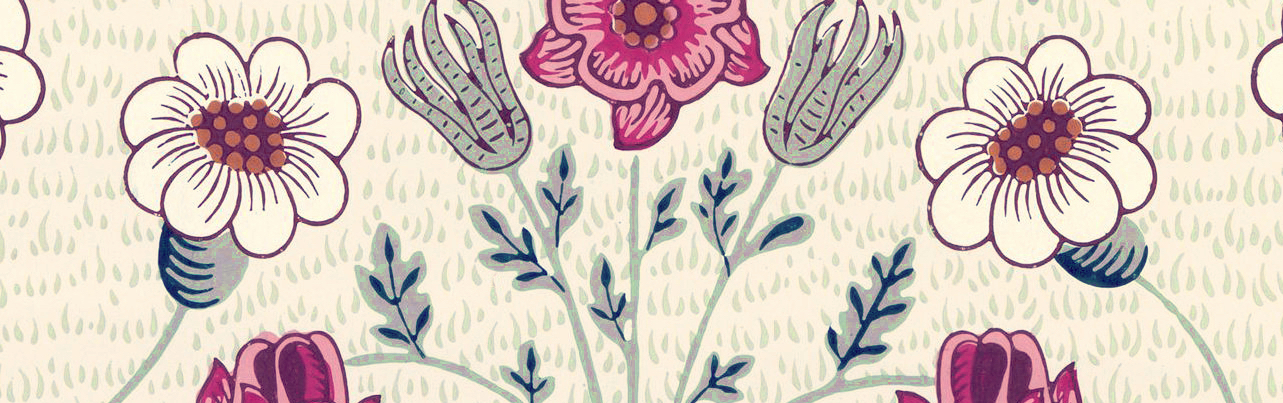
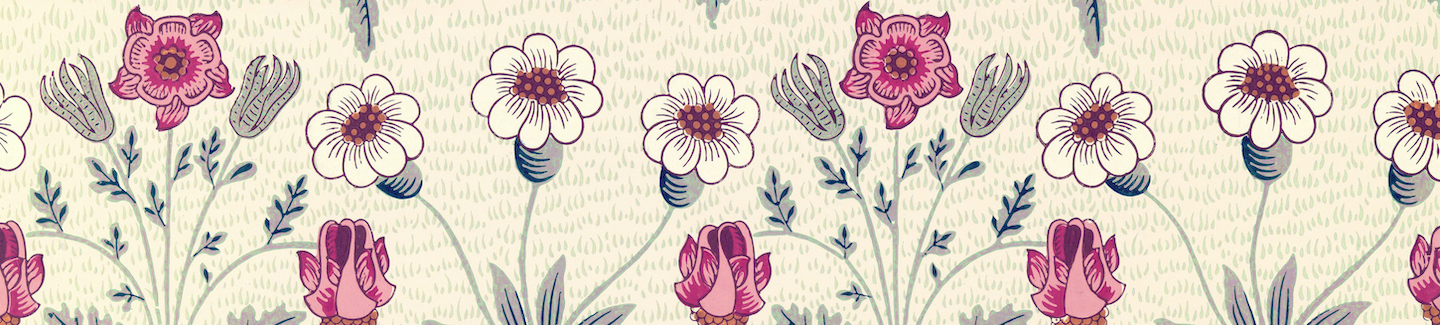
slider

diff --git a/content/home/slider.md b/content/home/slider.md
@@ -23,7 +23,7 @@ height = "325px"
   # Overlay a color or image (optional).
   #   Deactivate an option by commenting out the line, prefixing it with `#`.
   overlay_color = "#404040"  # An HTML color value.
-  overlay_img = "headers/daisy.jpg"  # Image path relative to your `static/img/` folder.
+  overlay_img = "headers/pomegranate.jpg"  # Image path relative to your `static/img/` folder.
   overlay_filter = 0.4  # Darken the image. Value in range 0-1.
 
   # Call to action button (optional).
@@ -40,8 +40,8 @@ height = "325px"
   align = "left"
 
   overlay_color = "#404040"  # An HTML color value.
-  overlay_img = "headers/pomegranate2.jpg"  # Image path relative to your `static/img/` folder.
-  overlay_filter = 0.6  # Darken the image. Value in range 0-1.
+  overlay_img = "headers/daisy.jpg"  # Image path relative to your `static/img/` folder.
+  overlay_filter = 0.4  # Darken the image. Value in range 0-1.
   
   cta_label = "see my projects"
   cta_url = "/projects"
@@ -54,7 +54,7 @@ height = "325px"
   align = "right"
 
   overlay_color = "#404040"  # An HTML color value.
-  overlay_img = "headers/pomegranate.jpg"  # Image path relative to your `static/img/` folder.
+  overlay_img = "headers/tulip.jpg"  # Image path relative to your `static/img/` folder.
   overlay_filter = 0.4  # Darken the image. Value in range 0-1.
 
   cta_label = "see my projects"
@@ -68,7 +68,7 @@ height = "325px"
   align = "center"
 
   overlay_color = "#404040"  # An HTML color value.
-  overlay_img = "headers/tulip.jpg"  # Image path relative to your `static/img/` folder.
+  overlay_img = "headers/bees.jpg"  # Image path relative to your `static/img/` folder.
   overlay_filter = 0.4  # Darken the image. Value in range 0-1.
 
   cta_label = "see my projects"
@@ -83,7 +83,7 @@ height = "325px"
 
   overlay_color = "#404040"  # An HTML color value.
   overlay_img = "headers/daisy-pink.jpg"  # Image path relative to your `static/img/` folder.
-  overlay_filter = 0.5  # Darken the image. Value in range 0-1.
+  overlay_filter = 0.4  # Darken the image. Value in range 0-1.
 
   cta_label = "see my projects"
   cta_url = "/projects"
@@ -96,7 +96,7 @@ height = "325px"
   align = "right"
 
   overlay_color = "#404040"  # An HTML color value.
-  overlay_img = "headers/daisy.jpg"  # Image path relative to your `static/img/` folder.
+  overlay_img = "headers/bats.jpg"  # Image path relative to your `static/img/` folder.
   overlay_filter = 0.4  # Darken the image. Value in range 0-1.
 
   cta_label = "see my projects"
@@ -110,8 +110,8 @@ height = "325px"
   align = "center"
 
   overlay_color = "#404040"  # An HTML color value.
-  overlay_img = "headers/pomegranate2.jpg"  # Image path relative to your `static/img/` folder.
-  overlay_filter = 0.6  # Darken the image. Value in range 0-1.
+  overlay_img = "headers/daisy-gray.jpg"  # Image path relative to your `static/img/` folder.
+  overlay_filter = 0.4  # Darken the image. Value in range 0-1.
 
   cta_label = "see my projects"
   cta_url = "/projects"
@@ -124,7 +124,7 @@ height = "325px"
   align = "left"
 
   overlay_color = "#404040"  # An HTML color value.
-  overlay_img = "headers/pomegranate.jpg"  # Image path relative to your `static/img/` folder.
+  overlay_img = "headers/pheasants.jpg"  # Image path relative to your `static/img/` folder.
   overlay_filter = 0.4  # Darken the image. Value in range 0-1.
 
   cta_label = "see my projects"
@@ -138,7 +138,7 @@ height = "325px"
   align = "right"
 
   overlay_color = "#404040"  # An HTML color value.
-  overlay_img = "headers/tulip.jpg"  # Image path relative to your `static/img/` folder.
+  overlay_img = "headers/pomegranate.jpg"  # Image path relative to your `static/img/` folder.
   overlay_filter = 0.4  # Darken the image. Value in range 0-1.
 
   cta_label = "see my projects"
@@ -152,7 +152,7 @@ height = "325px"
   align = "center"
 
   overlay_color = "#404040"  # An HTML color value.
-  overlay_img = "headers/daisy-pink.jpg"  # Image path relative to your `static/img/` folder.
+  overlay_img = "headers/birds.jpg"  # Image path relative to your `static/img/` folder.
   overlay_filter = 0.5  # Darken the image. Value in range 0-1.
 
   cta_label = "see my projects"
@@ -180,8 +180,8 @@ height = "325px"
   align = "right"
 
   overlay_color = "#404040"  # An HTML color value.
-  overlay_img = "headers/pomegranate2.jpg"  # Image path relative to your `static/img/` folder.
-  overlay_filter = 0.6  # Darken the image. Value in range 0-1.
+  overlay_img = "headers/bats.jpg"  # Image path relative to your `static/img/` folder.
+  overlay_filter = 0.4  # Darken the image. Value in range 0-1.
 
   cta_label = "see my projects"
   cta_url = "/projects"
@@ -194,7 +194,7 @@ height = "325px"
   align = "center"
 
   overlay_color = "#404040"  # An HTML color value.
-  overlay_img = "headers/pomegranate.jpg"  # Image path relative to your `static/img/` folder.
+  overlay_img = "headers/bees.jpg"  # Image path relative to your `static/img/` folder.
   overlay_filter = 0.4  # Darken the image. Value in range 0-1.
 
   cta_label = "see my projects"
@@ -208,7 +208,7 @@ height = "325px"
   align = "left"
 
   overlay_color = "#404040"  # An HTML color value.
-  overlay_img = "headers/tulip.jpg"  # Image path relative to your `static/img/` folder.
+  overlay_img = "headers/birds.jpg"  # Image path relative to your `static/img/` folder.
   overlay_filter = 0.4  # Darken the image. Value in range 0-1.
 
   cta_label = "see my projects"
